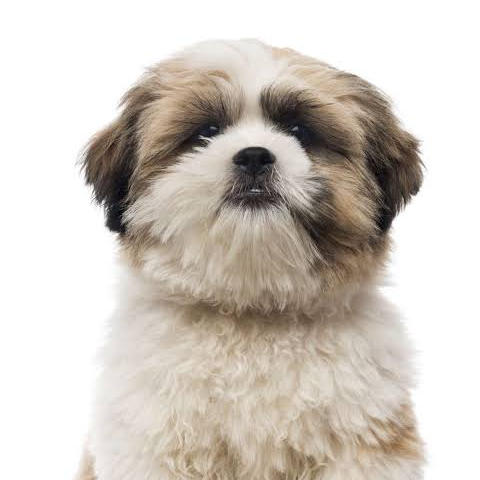
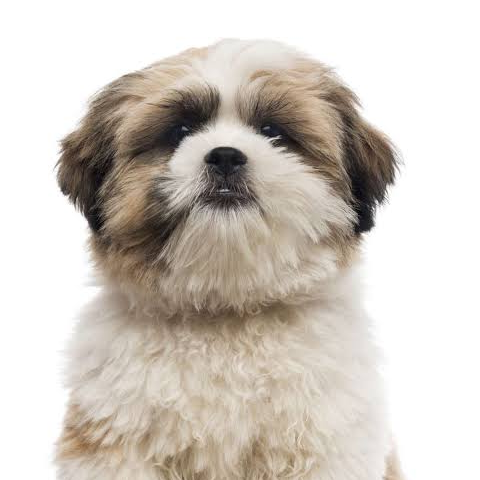
feat: add dogs

diff --git a/app/components/Board/components/Tile/index.tsx b/app/components/Board/components/Tile/index.tsx
@@ -1,8 +1,10 @@
 import { IPlayableTile } from "@/@types/tile"
 import { Box } from "@/components/ui/box"
 import { Button, ButtonGroup, ButtonText } from "@/components/ui/button"
+import { Image } from "@/components/ui/image"
 import { blockSize } from "@/constants/game"
 import { useGame, useGameDispatch } from "@/contexts/GameProvider"
+import { mapNumberToBackground } from "@/utils/dogs/map-number-to-background"
 import { useCallback, useMemo } from "react"
 import TileNotes from "../TileNotes"
 
@@ -52,6 +54,8 @@ export default function Tile({ correctValue, value, i, j }: Readonly<ITileProps>
         return null
     }, [tileState, isOnRowOrColumnOrGridOfSelected])
 
+    const isHighlighted = useMemo(() => tileState === "selected" || tileState === "indirectly-selected", [tileState])
+
     const isCorrect = useMemo(() => value.value === correctValue, [value.value, correctValue])
     // #endregion
 
@@ -68,10 +72,20 @@ export default function Tile({ correctValue, value, i, j }: Readonly<ITileProps>
             >
                 <Button
                     onPress={handleSelectTile}
-                    className="justify-center items-center h-full p-2 xs:p-3 sm:p-5 aspect-square"
+                    className="justify-center items-center h-full p-2 xs:p-3 sm:p-5 aspect-square relative"
                     data-hover={false}
                     isHovered={false}
                 >
+                    {value.value && (
+                        <Image
+                            source={mapNumberToBackground(value.value)}
+                            className={`absolute inset-0 object-contain max-h-full
+                                [clip-path:polygon(0_0,100%_0,100%_0,0_100%)]
+                                [mask-image:linear-gradient(135deg,black_0%,transparent_62.5%)]
+                                ${!isHighlighted ? "opacity-0" : "opacity-100"}
+                            `}
+                        />
+                    )}
                     <ButtonText
                         className={`
                             text-2xl font-medium
